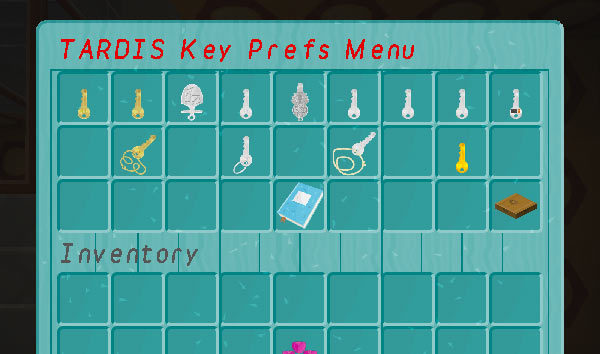
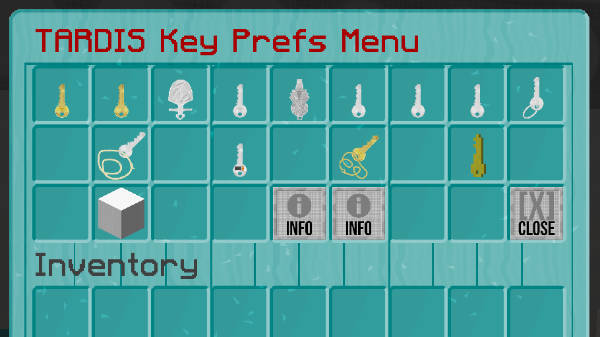
Add camera, update sonic and key prefs GUIs

diff --git a/site-map.html b/site-map.html
@@ -72,6 +72,7 @@
             <dd><a href="build-tools.html" title="BuildTools">BuildTools</a></dd>
             <dt>C</dt>
             <dd><a href="misc-commands.html#tardiscall" title="Call command">Call command</a></dd>
+            <dd><a href="mointor.html#tardis-external-camera" title="Camera">Camera</a></dd>
             <dd><a href="chameleon-arch.html" title="Chameleon arch">Chameleon arch</a></dd>
             <dd><a href="chameleon-circuit.html" title="Chameleon circuit">Chameleon circuit</a></dd>
             <dd><a href="chameleon-construction.html" title="Chameleon construction">Chameleon construction</a></dd>

diff --git a/player-preferences.md b/player-preferences.md
@@ -60,6 +60,13 @@ To change the look of your TARDIS Key, type:
 This requires the [TARDIS Resource Pack](http://tardisjenkins.duckdns.org:8080/job/TARDIS-Resource-Pack/) to see the
 different key textures. Use the command to open the TARDIS Key GUI.
 
+To change the TARDIS key texture:
+
+- Place your key in the lower left slot and then select the
+  key of your choice
+- To change the colour of the key’s display name, click the wool block to choose a colour
+- Remove your key and close the GUI
+
 ![TARDIS Key GUI](images/docs/key_prefs_menu.jpg)
 
 To change the look of your Sonic Screwdriver, type:
@@ -68,6 +75,13 @@ To change the look of your Sonic Screwdriver, type:
 
 This requires the [TARDIS Resource Pack](http://tardisjenkins.duckdns.org:8080/job/TARDIS-Resource-Pack/) to see the
 different sonic textures. Use the command to open the Sonic Screwdriver GUI.
+
+To change the screwdriver texture:
+
+- Place your sonic in the lower left slot and then select the
+  screwdriver of your choice
+- To change the colour of the sonic’s display name, click the wool block to choose a colour
+- Remove your screwdriver and close the GUI
 
 ![Sonic Screwdriver GUI](images/docs/sonic_prefs_menu.jpg)
 
@@ -168,7 +182,7 @@ The server admin may have restricted the blocks that can be used as a lamp.
 
 ### `/tardisprefs build`
 
-You can toggle the whether companions can build inside your TARDIS with this command, type:
+You can toggle whether companions can build inside your TARDIS with this command, type:
 
     /tardis build [on|off]
 
@@ -179,7 +193,7 @@ materialisation with this command, type:
 
     /tardisprefs minecart [on|off]
 
-### `@Deprecated<br>/tardisprefs wool_lights`
+### `@Deprecated`<br>`/tardisprefs wool_lights`
 
 You can choose whether to use black wool or sponge (re-textured with the TARDIS Resource Pack to look like Redstone Lamp
 Off blocks) for the off state of the TARDIS lights with this command, type:
@@ -187,7 +201,7 @@ Off blocks) for the off state of the TARDIS lights with this command, type:
     @Deprecated
     /tardisprefs wool_lights [on|off]
 
-### `@Deprecated<br>/tardisprefs ctm`
+### `@Deprecated`<br>`/tardisprefs ctm`
 
 You can choose whether your Police Box preset uses the Connected Textures Mod to change the block to the left of the
 door to a quartz pillar that is retextured to the Police Box sign (players without the mod installed will see a plain
@@ -222,7 +236,7 @@ To toggle automatically powering up the TARDIS when entering (if it is powered d
 
     /tardisprefs auto_powerup [on|off]
 
-### `@Deprecated<br>/tardisprefs lanterns`
+### `@Deprecated`<br>`/tardisprefs lanterns`
 
 Set whether your TARDIS console uses lanterns or redstone lamps with this command, type:
 

diff --git a/sonic-screwdriver.md b/sonic-screwdriver.md
@@ -123,7 +123,7 @@ Right-click the arrow, then step towards to pick it up.
 
 ### Knockback
 
-The Knockback upgraded Sonic allows you repel monsters when right-clicking them.
+The Knockback upgraded Sonic allows you to repel monsters when right-clicking them.
 
 ### Brush
 
@@ -152,9 +152,11 @@ To change the screwdriver texture:
 - Open the Sonic Prefs menu using the command `/tardisprefs sonic`
 - In the GUI, place your sonic in the lower left slot and then select the
   screwdriver of your choice
-- Remove the screwdriver and close the GUI
+- To change the colour of the sonic’s display name, click the wool block to choose a colour
+- Remove your screwdriver and close the GUI
 
 ![Sonic Prefs Menu](images/docs/sonic_prefs_menu.jpg)
 
+## Default screwdriver
 Server admins can set the default screwdriver type —
 `/tardisconfig default_sonic [type]` — use tab completion to see a list of types.

diff --git a/monitor.md b/monitor.md
@@ -32,3 +32,13 @@ The monitor requires two item frames to be placed adjacent to each other.
 
 ![TARDIS Monitor](images/docs/tardis_monitor.jpg)
 
+## TARDIS external camera
+
+If players have the permission `tardis.camera`, they can right-click the monitor frame while sneaking to view the actual exterior.
+
+This feature is only available when the TARDIS exterior is using an armour stand custom model Chameleon preset.
+
+Press the _Shift_ key to dismount and return to the TARDIS interior.
+
+![TARDIS external camera](images/docs/camera.gif)
+
